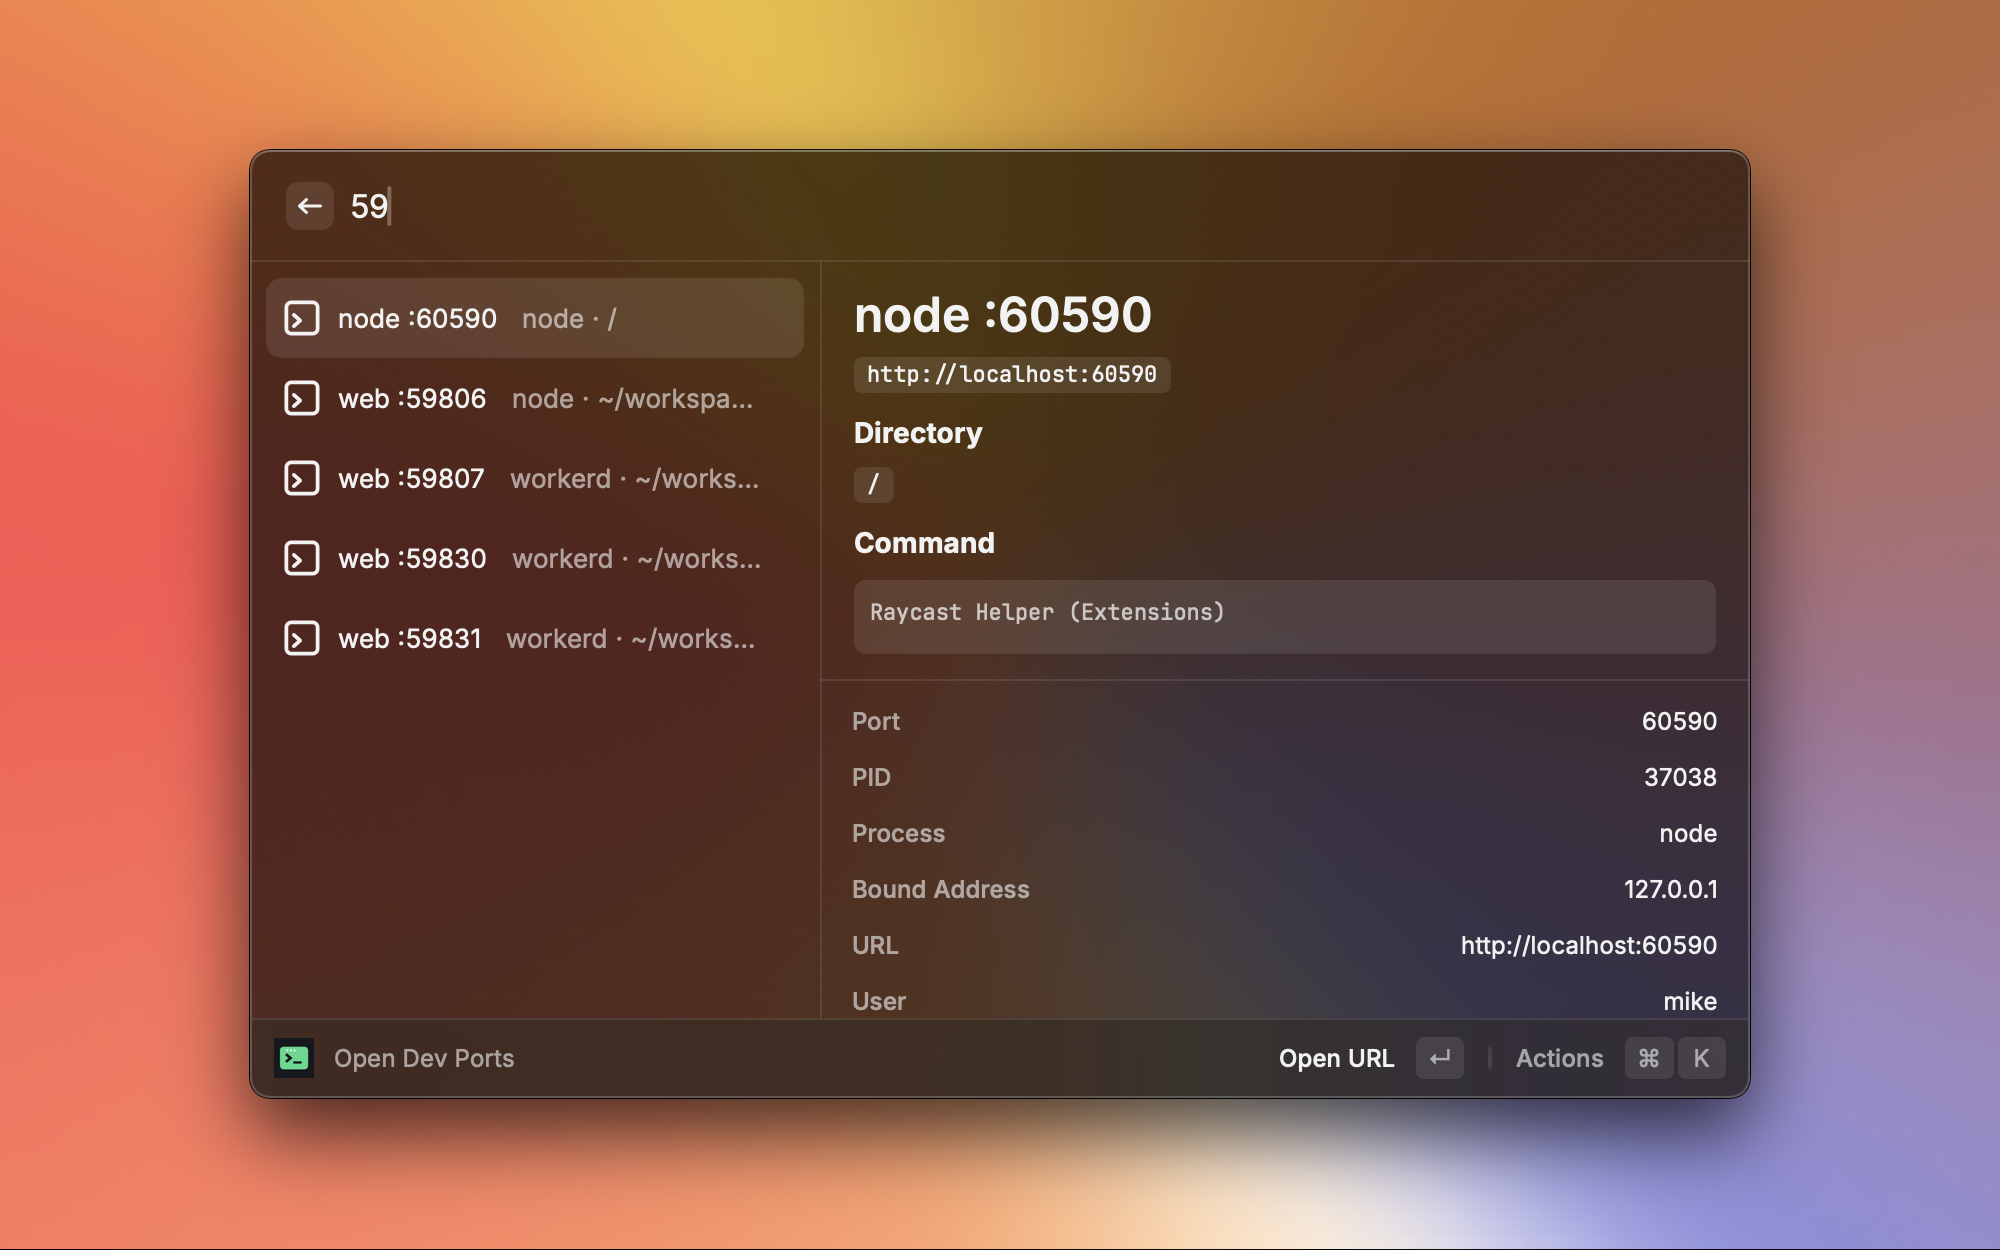
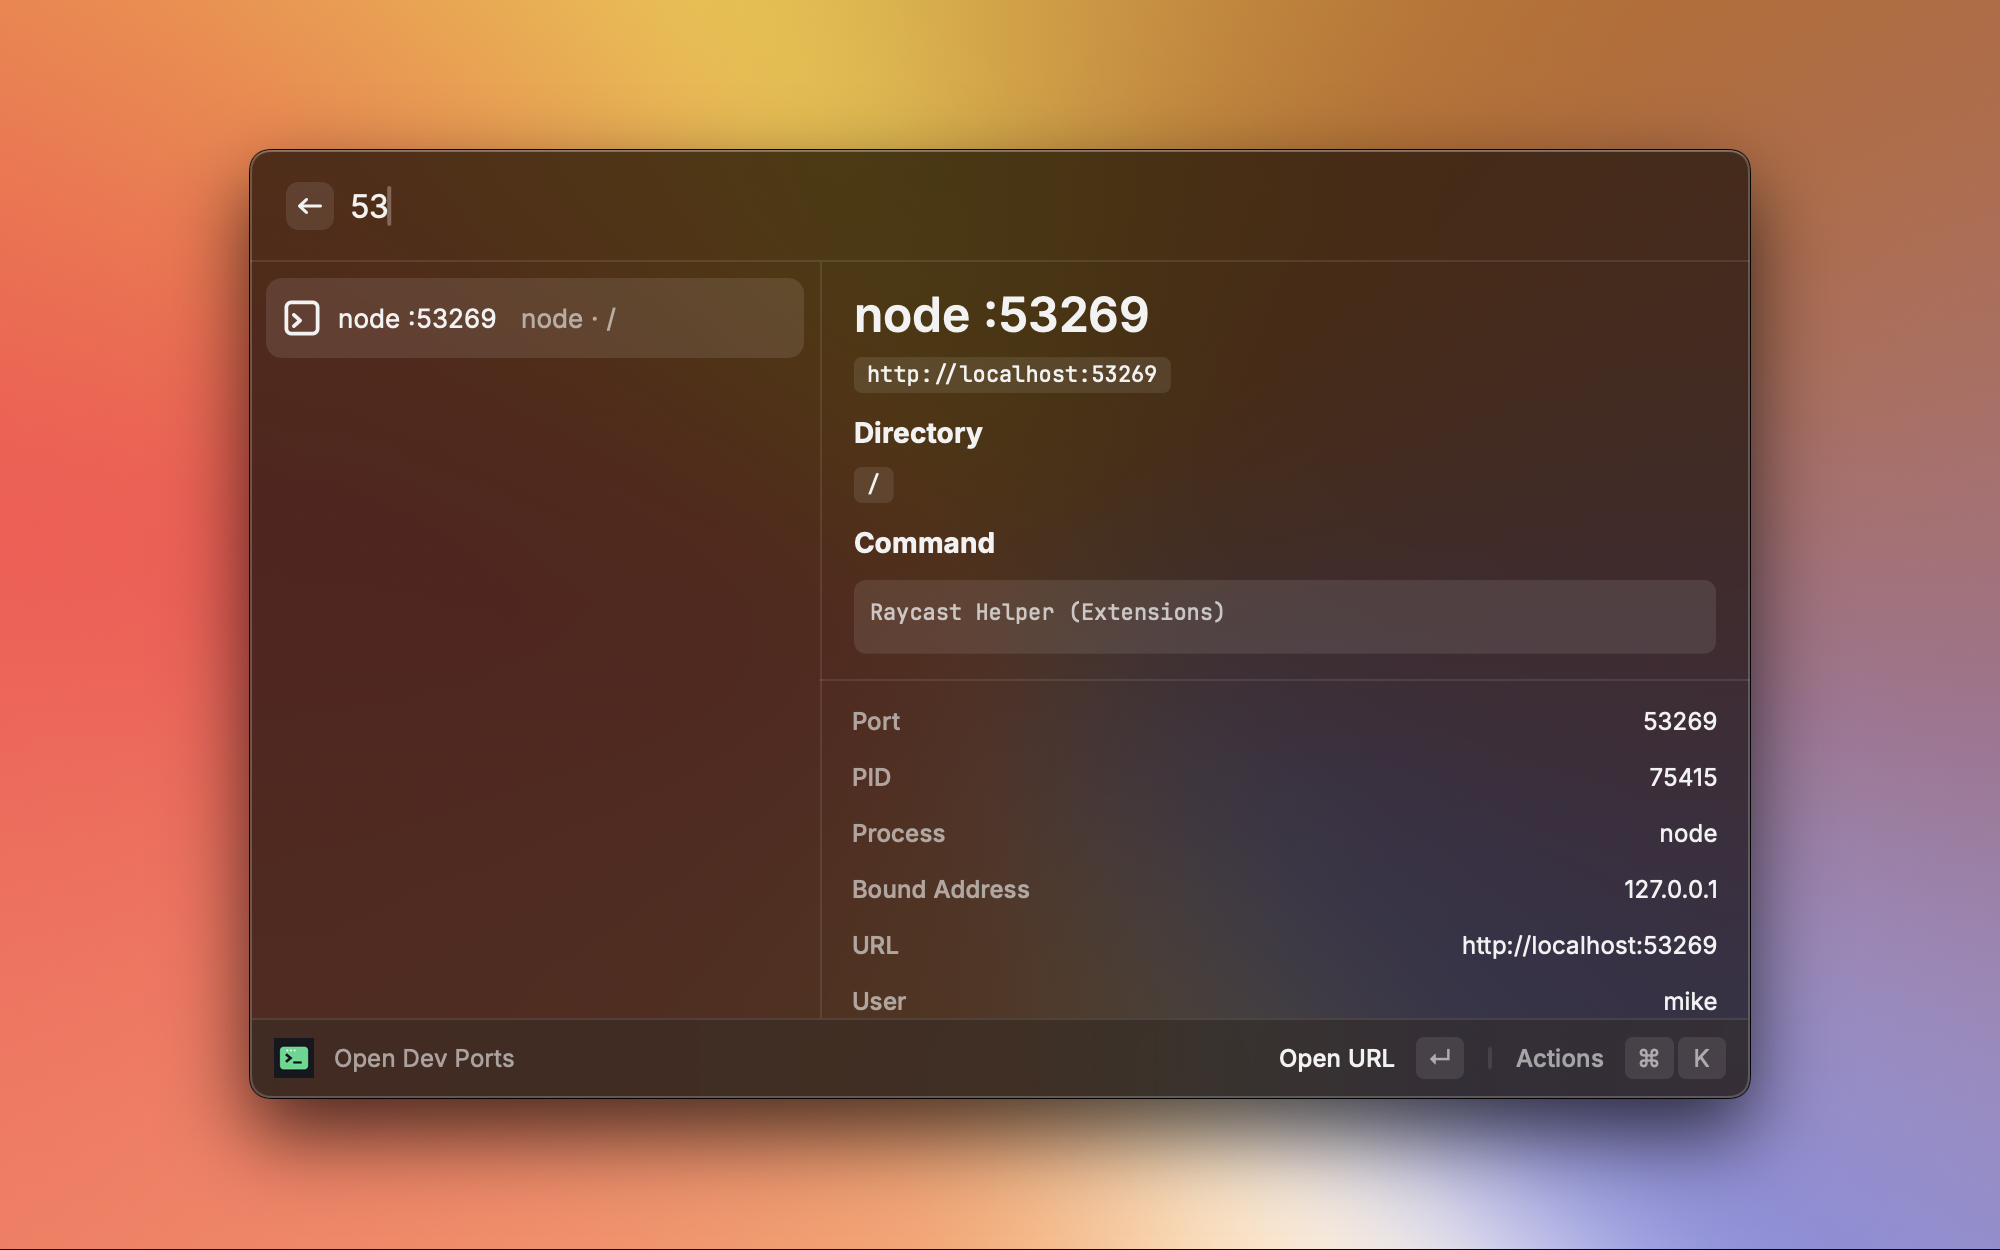
fix: address dev ports review feedback

diff --git a/extensions/dev-ports/src/open-dev-ports.tsx b/extensions/dev-ports/src/open-dev-ports.tsx
@@ -19,14 +19,16 @@ import { useEffect, useMemo, useState } from "react";
 import path from "node:path";
 
 import { formatBytes, formatPercent, truncateCommand } from "./lib/format";
-import { killProcess } from "./lib/processes";
+import { getProcessCwds, getProcessStats, killProcess } from "./lib/processes";
 import { discoverPorts } from "./lib/ports";
 import { getPreferredIDE, IDE_CONFIGS } from "./lib/project";
 import { focusTerminalSession as focusPortTerminalSession } from "./lib/terminal";
-import { PortProcess, Preferences } from "./types";
+import { PortProcess } from "./types";
+
+type CommandPreferences = Preferences.OpenDevPorts;
 
 export default function Command() {
-  const preferences = getPreferenceValues<Preferences>();
+  const preferences = getPreferenceValues<CommandPreferences>();
   const [showAllPorts, setShowAllPorts] = useState(Boolean(preferences.showAllPortsByDefault));
   const [showDetails, setShowDetails] = useState(true);
   const { data: ports = [], error, isLoading, revalidate } = usePromise(discoverPorts, [preferences.defaultHost]);
@@ -45,13 +47,17 @@ export default function Command() {
     return () => clearInterval(interval);
   }, [revalidate]);
 
-  if (error) {
+  useEffect(() => {
+    if (!error) {
+      return;
+    }
+
     showToast({
       style: Toast.Style.Failure,
       title: "Could not load listening ports",
       message: error.message,
     });
-  }
+  }, [error]);
 
   return (
     <List
@@ -104,7 +110,7 @@ function PortListItem({
   onRefresh,
 }: {
   port: PortProcess;
-  preferences: Preferences;
+  preferences: CommandPreferences;
   devPorts: PortProcess[];
   showAllPorts: boolean;
   showDetails: boolean;
@@ -114,7 +120,7 @@ function PortListItem({
 }) {
   const accessories = isLocalOnlyAddress(port.boundAddress)
     ? []
-    : [{ tag: { value: "LAN", color: Color.SecondaryText } }];
+    : [{ icon: Icon.Network, tooltip: "Available on LAN" }];
 
   return (
     <List.Item
@@ -163,7 +169,7 @@ function PortActions({
   onRefresh,
 }: {
   port: PortProcess;
-  preferences: Preferences;
+  preferences: CommandPreferences;
   devPorts: PortProcess[];
   showAllPorts: boolean;
   showDetails: boolean;
@@ -342,7 +348,7 @@ function formatDirectory(directory?: string): string | undefined {
   return `${parts[0]}/${parts[1]}/.../${parts[parts.length - 1]}`;
 }
 
-async function openPortUrl(port: PortProcess, preferences: Preferences) {
+async function openPortUrl(port: PortProcess, preferences: CommandPreferences) {
   await open(port.url);
 
   if (preferences.closeAfterOpening) {
@@ -350,7 +356,7 @@ async function openPortUrl(port: PortProcess, preferences: Preferences) {
   }
 }
 
-async function focusTerminalForPort(port: PortProcess, preferences: Preferences) {
+async function focusTerminalForPort(port: PortProcess, preferences: CommandPreferences) {
   try {
     const title = await focusPortTerminalSession(port, preferences.preferredTerminal);
     await showToast({
@@ -367,7 +373,7 @@ async function focusTerminalForPort(port: PortProcess, preferences: Preferences)
   }
 }
 
-function getOpenProjectTitle(preferences: Preferences): string {
+function getOpenProjectTitle(preferences: CommandPreferences): string {
   const preferredIDE = getPreferredIDE(preferences.preferredIDE);
 
   return preferredIDE ? `Open Project in ${preferredIDE.title}` : "Open Project";
@@ -381,6 +387,7 @@ async function killPortProcess(
 ) {
   const runKill = async () => {
     try {
+      await assertProcessStillMatches(port);
       await killProcess(port.pid, signal);
       await showToast({
         style: Toast.Style.Success,
@@ -429,6 +436,7 @@ async function killAllDevPorts(devPorts: PortProcess[], shouldConfirm: boolean, 
 
     for (const port of processes) {
       try {
+        await assertProcessStillMatches(port);
         await killProcess(port.pid, "SIGTERM");
       } catch (error) {
         const message = error instanceof Error ? error.message : String(error);
@@ -466,6 +474,25 @@ async function killAllDevPorts(devPorts: PortProcess[], shouldConfirm: boolean, 
       onAction: runKillAll,
     },
   });
+}
+
+async function assertProcessStillMatches(port: PortProcess): Promise<void> {
+  const [statsByPid, cwdByPid] = await Promise.all([getProcessStats([port.pid]), getProcessCwds([port.pid])]);
+  const stats = statsByPid.get(port.pid);
+
+  if (!stats) {
+    throw new Error("Process is no longer running.");
+  }
+
+  if (port.command && stats.command !== port.command) {
+    throw new Error("Process changed since the list was refreshed. Refresh and try again.");
+  }
+
+  const cwd = cwdByPid.get(port.pid);
+
+  if (port.cwd && cwd && cwd !== port.cwd) {
+    throw new Error("Process changed directory since the list was refreshed. Refresh and try again.");
+  }
 }
 
 function getUniqueProcesses(ports: PortProcess[]): PortProcess[] {

diff --git a/extensions/dev-ports/src/types.ts b/extensions/dev-ports/src/types.ts
@@ -1,26 +1,6 @@
-export type DefaultHostPreference = "localhost" | "127.0.0.1" | "bound-address";
-export type PreferredTerminalPreference = "auto" | "iterm" | "terminal";
-export type PreferredIDEPreference =
-  | "auto"
-  | "cursor"
-  | "visual-studio-code"
-  | "zed"
-  | "webstorm"
-  | "intellij-idea"
-  | "pycharm"
-  | "sublime-text"
-  | "xcode"
-  | "system";
-
-export type Preferences = {
-  showAllPortsByDefault?: boolean;
-  defaultHost: DefaultHostPreference;
-  preferredTerminal: PreferredTerminalPreference;
-  preferredIDE: PreferredIDEPreference;
-  confirmBeforeKill?: boolean;
-  confirmBeforeForceKill?: boolean;
-  closeAfterOpening?: boolean;
-};
+export type DefaultHostPreference = Preferences.OpenDevPorts["defaultHost"];
+export type PreferredTerminalPreference = Preferences.OpenDevPorts["preferredTerminal"];
+export type PreferredIDEPreference = Preferences.OpenDevPorts["preferredIDE"];
 
 export type ProcessStats = {
   pid: number;

diff --git a/extensions/dev-ports/src/lib/probe.ts b/extensions/dev-ports/src/lib/probe.ts
@@ -1,3 +1,4 @@
+import net from "node:net";
 import tls from "node:tls";
 
 const PROBE_TTL_MS = 15_000;
@@ -47,10 +48,11 @@ export async function detectUrlScheme(host: string, port: number): Promise<"http
 
 function probeHttps(host: string, port: number): Promise<boolean> {
   return new Promise((resolve) => {
+    const servername = getServername(host);
     const socket = tls.connect({
       host,
       port,
-      servername: host === "127.0.0.1" ? "localhost" : host,
+      ...(servername ? { servername } : {}),
       rejectUnauthorized: false,
       timeout: HTTPS_PROBE_TIMEOUT_MS,
     });
@@ -70,6 +72,14 @@ function probeHttps(host: string, port: number): Promise<boolean> {
       resolve(false);
     });
   });
+}
+
+function getServername(host: string): string | undefined {
+  if (host === "localhost" || host === "127.0.0.1" || host === "::1") {
+    return "localhost";
+  }
+
+  return net.isIP(host) ? undefined : host;
 }
 
 function normalizeProbeHost(host: string): string {

diff --git a/extensions/dev-ports/src/lib/ports.ts b/extensions/dev-ports/src/lib/ports.ts
@@ -308,8 +308,12 @@ async function buildLanUrls(boundAddress: string, port: number, lanHosts: string
     return [];
   }
 
-  const scheme = await detectUrlScheme("localhost", port);
-  return lanHosts.map((host) => `${scheme}://${host}:${port}`);
+  return Promise.all(
+    lanHosts.map(async (host) => {
+      const scheme = await detectUrlScheme(host, port);
+      return `${scheme}://${host}:${port}`;
+    }),
+  );
 }
 
 function getLanHosts(): string[] {